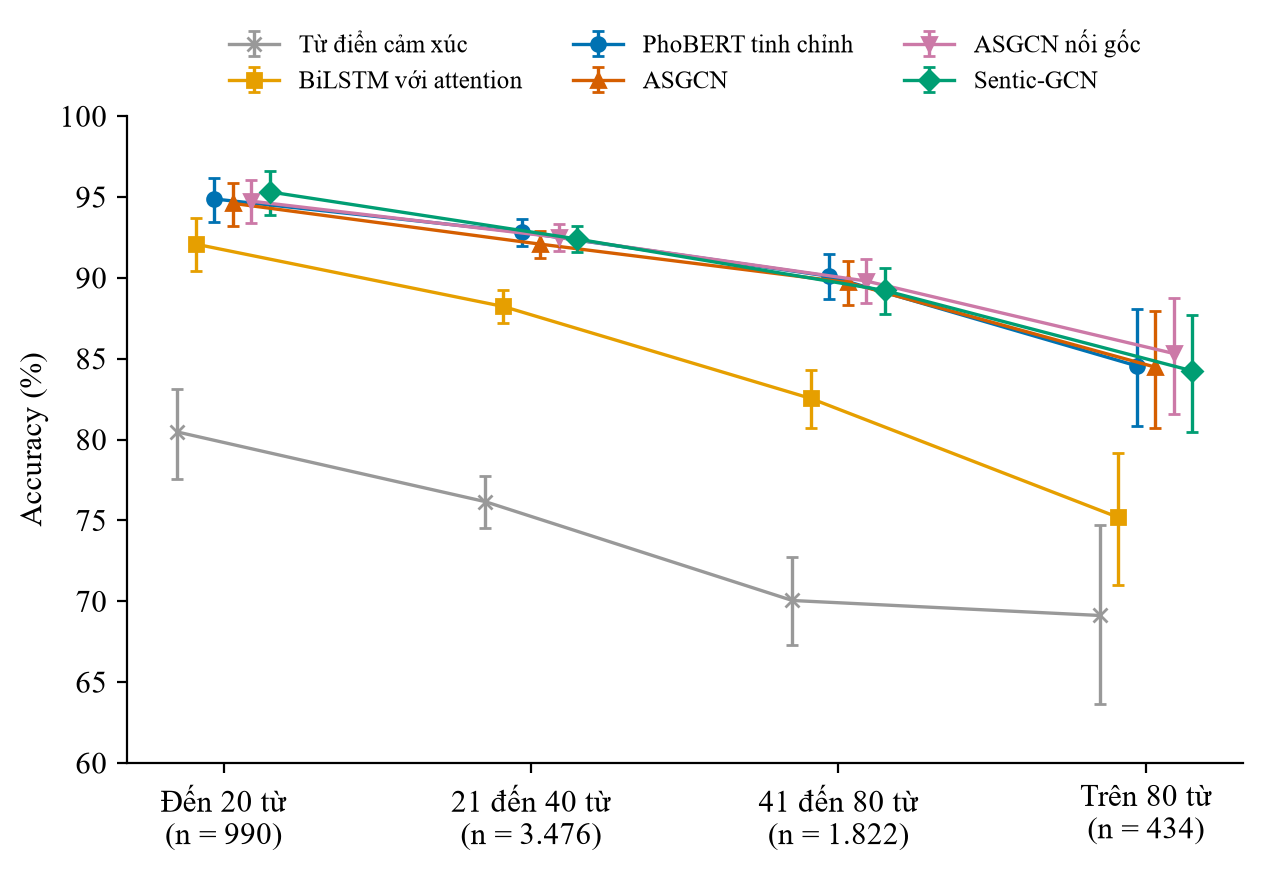
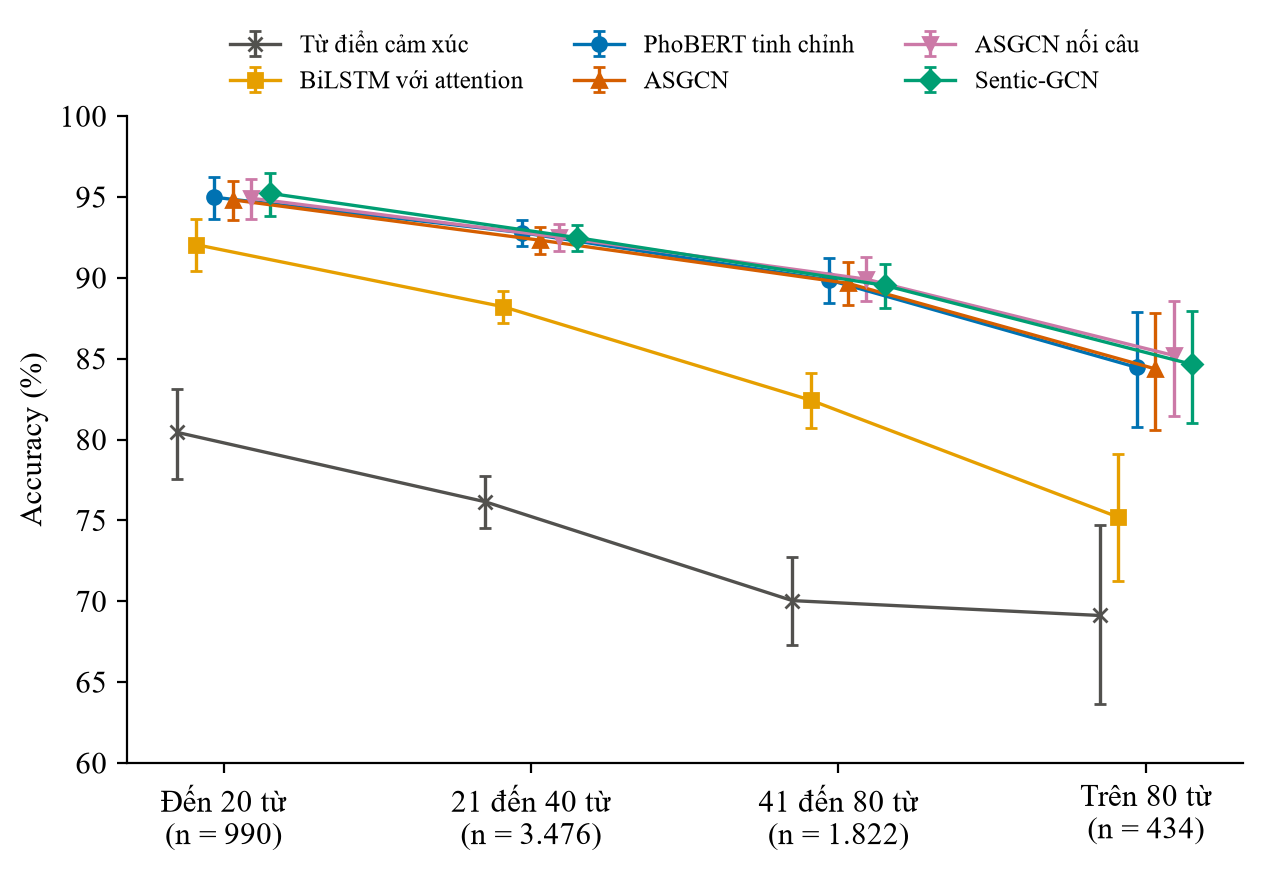
[CD1.12p] Doi ten bien the "ASGCN noi goc" thanh "ASGCN noi cau" (hoc vien thay ten cu kho hieu): ten hien thi, Phu luc C truc tuyen, hinh va bang xuat lai
Ban luu (ban day du) giu ten cu: doi_chieu_chuong4.py dung TEN_BAN_LUU khi --ban day_du.

diff --git a/scripts/doi_chieu_chuong4.py b/scripts/doi_chieu_chuong4.py
@@ -108,7 +108,8 @@ MAU_TEN_BANG = re.compile(r"^Bảng ((?:\d+|[A-Z])\.\d+): (.*)$")
 MAU_SO = re.compile(r"\d[\d.,]*\d|\d")
 MO_HINH = ("lexicon", "bilstm", "phobert", "asgcn", "asgcn_linked", "senticgcn")
 TEN = cb.TEN_HIEN_THI
-KHIA_CANH = ("GENERAL", "PERFORMANCE", "BATTERY", "FEATURES", "SER&ACC", "CAMERA", "PRICE", "DESIGN", "SCREEN", "STORAGE")
+TEN_BAN_LUU = {"asgcn_linked": "ASGCN nối gốc"}  # tên cũ, bản lưu (bản đầy đủ) vẫn dùng; xem main()
+KHIA_CANH =("GENERAL", "PERFORMANCE", "BATTERY", "FEATURES", "SER&ACC", "CAMERA", "PRICE", "DESIGN", "SCREEN", "STORAGE")
 # Số bình luận gốc của từng phần, đếm trên file của tác giả (Train.csv, Dev.csv, Test.csv). Không suy được từ
 # data/processed vì bình luận chỉ có nhãn OTHERS không sinh mẫu.
 BINH_LUAN_GOC = {"train": 7786, "dev": 1112, "test": 2224}
@@ -363,7 +364,7 @@ def cau_cua_ban_chinh(m, acc, f1, f1s, tt, tho, loi_tb, so_doan_tt, pre_tt, rec_
             f"ở {' và '.join(f'seed {sd}' for sd in duong_ag)} ASGCN nhỉnh hơn PhoBERT, ở {so_chu(len(cb.SEEDS) - len(duong_ag))} seed còn lại nó thấp hơn",
             "4.4, ASGCN từng seed"),
         neu(all(ng_ag[d]["hieu_so"] > 0 and ng_ag[d]["p"] < 0.05 for d in ("macro_f1", "accuracy")),
-            "biến thể nối gốc hơn ASGCN có ý nghĩa ở cả hai độ đo", "4.4, nối gốc hơn ASGCN"),
+            "biến thể nối câu hơn ASGCN có ý nghĩa ở cả hai độ đo", "4.4, nối gốc hơn ASGCN"),
         neu(f1["asgcn_linked"][1] < f1["asgcn"][1], "ổn định hơn ASGCN giữa các seed", "4.4, độ lệch chuẩn nối gốc"),
         neu(bool(am_ng := [str(sd) for sd, x in zip(cb.SEEDS, tung_seed("asgcn_linked", "asgcn")) if x < 0]),
             "Hiệu số với ASGCN còn đổi dấu ở " + " và ".join(f"seed {sd}" for sd in am_ng), "4.4, nối gốc đổi dấu theo seed"),
@@ -386,7 +387,7 @@ def cau_cua_ban_chinh(m, acc, f1, f1s, tt, tho, loi_tb, so_doan_tt, pre_tt, rec_
             f"dùng PhoBERT, {tp(pre_tt['senticgcn'])} %, và tổng số mẫu đoán sai vẫn nhiều hơn PhoBERT",
             "4.4, recall và precision của Sentic-GCN"),
         neu(all(cap[(e, "phobert")][d]["p"] >= 0.05 for e in ("senticgcn", "asgcn_linked") for d in ("macro_f1", "accuracy")),
-            "Sentic-GCN và ASGCN nối gốc không khác PhoBERT có ý nghĩa ở cả hai độ đo", "4.7, ba mô hình ngang nhau"),
+            "Sentic-GCN và ASGCN nối câu không khác PhoBERT có ý nghĩa ở cả hai độ đo", "4.7, ba mô hình ngang nhau"),
         neu(max(acc, key=lambda e: acc[e][0]) == "phobert" and nho_nhat_f1 == "phobert",
             "có accuracy cao nhất và, trong năm mô hình học, ổn định nhất giữa các seed", "4.7, mô hình đứng đầu"),
         neu(all(x > 0 for x in tung_seed("bilstm", "lexicon") + tung_seed("phobert", "bilstm"))
@@ -423,9 +424,9 @@ def so_lieu_doi_chung(goc: Path) -> Tuple[List[Tuple[str, Optional[str]]], Dict[
     """
     kq = json.loads((goc / "results/doi_chung_do_thi.json").read_text(encoding="utf-8"))
     ten = {"phobert": "PhoBERT tinh chỉnh", "phobert_fp32": "PhoBERT fp32", "asgcn_khong_gcn": "ASGCN bỏ GCN",
-           "asgcn": "ASGCN", "asgcn_linked": "ASGCN nối gốc", "senticgcn": "Sentic-GCN"}
+           "asgcn": "ASGCN", "asgcn_linked": "ASGCN nối câu", "senticgcn": "Sentic-GCN"}
     buoc = {("phobert_fp32", "phobert"): "Tắt độ chính xác hỗn hợp", ("asgcn_khong_gcn", "phobert_fp32"): "Đổi cách đọc ra",
-            ("asgcn", "asgcn_khong_gcn"): "Thêm GCN trên cây phụ thuộc", ("asgcn_linked", "asgcn_khong_gcn"): "Thêm GCN trên cây nối gốc",
+            ("asgcn", "asgcn_khong_gcn"): "Thêm GCN trên cây phụ thuộc", ("asgcn_linked", "asgcn_khong_gcn"): "Thêm GCN trên đồ thị nối câu",
             ("senticgcn", "asgcn_khong_gcn"): "Thêm GCN có trọng số cảm xúc"}
 
     def cap(nhom: str, a: str, b: str) -> dict:
@@ -468,7 +469,7 @@ def so_lieu_doi_chung(goc: Path) -> Tuple[List[Tuple[str, Optional[str]]], Dict[
             "4.4, đổi cách đọc ra"),
         neu(cay["hieu_so"] < 0 and cay["p_hoan_vi_seed"] >= 0.05,
             "cây phụ thuộc làm giảm thêm nhưng không vượt được dao động giữa các seed", "4.4, GCN trên cây phụ thuộc"),
-        neu(abs(noi["hieu_so"]) < 0.001, "cây nối gốc gần như không đổi gì", "4.4, GCN trên cây nối gốc"),
+        neu(abs(noi["hieu_so"]) < 0.001, "đồ thị nối câu gần như không đổi gì", "4.4, GCN trên cây nối gốc"),
         neu(0 < sen["hieu_so"] < 0.005 and sen["p"] >= 0.05, "còn trọng số cảm xúc tăng nhẹ mà không có ý nghĩa", "4.4, GCN có trọng số cảm xúc"),
         # Trước 17/10/2026 câu này viết "phần lớn khoảng cách ... đến từ cách đọc ra chứ không từ cây phụ thuộc": nói quá,
         # vì hai phần gần bằng nhau về độ lớn (0,63 và 0,58 điểm), chỉ khác ở phép hoán vị seed (GAP-042).
@@ -480,9 +481,9 @@ def so_lieu_doi_chung(goc: Path) -> Tuple[List[Tuple[str, Optional[str]]], Dict[
             f"Sentic-GCN hơn ASGCN bỏ GCN {tp(trai['hieu_so'] * 100)} điểm macro-F1 với p bootstrap bằng {cb.p_chu(trai['p'])}, "
             f"nhưng p hoán vị bằng {cb.p_chu(trai['p_hoan_vi_seed'])}, và nó vẫn thấp hơn PhoBERT fp32 {tp(-trai_fp['hieu_so'] * 100)} điểm",
             "4.4, Sentic-GCN ở nhóm trái cảm xúc"),
-        ("4.4, mẫu nối gốc có đổi đồ thị", f"Nối gốc chỉ đổi đồ thị ở {nghin(n_nhom['nhieu_goc'])} mẫu có từ hai gốc trở lên"),
+        ("4.4, mẫu nối gốc có đổi đồ thị", f"Việc nối câu chỉ đổi đồ thị ở {nghin(n_nhom['nhieu_goc'])} mẫu có từ hai câu trở lên"),
         neu(mot["hieu_so"] > nhieu["hieu_so"],
-            f"Ở {nghin(n_nhom['mot_goc'])} mẫu chỉ có một gốc, đồ thị của hai mô hình giống hệt nhau, vậy mà biến thể nối gốc vẫn hơn ASGCN "
+            f"Ở {nghin(n_nhom['mot_goc'])} mẫu chỉ có một câu, đồ thị của hai mô hình giống hệt nhau, vậy mà biến thể nối câu vẫn hơn ASGCN "
             f"{tp(mot['hieu_so'] * 100)} điểm ({p_loi(mot['p'])}); ở nhóm có đổi đồ thị nó chỉ hơn {tp(nhieu['hieu_so'] * 100)} điểm ({p_loi(nhieu['p'])})",
             "4.4, nối gốc theo nhóm một gốc và nhiều gốc"),
         neu(ng_toan["p_hoan_vi_seed"] >= 0.05, f"không qua được phép hoán vị seed (p bằng {cb.p_chu(ng_toan['p_hoan_vi_seed'])})", "4.4, nối gốc qua phép hoán vị"),
@@ -596,7 +597,7 @@ def ket_qua_chi_phi(goc: Path, mh: Dict[str, dict]) -> List[Tuple[str, Optional[
         ("4.5, GPU", f"Phép đo chạy trên GPU {gpu.pop() if len(gpu) == 1 else sorted(gpu)}"),
         neu(khoi_tao == ["asgcn", "phobert"], "PhoBERT và ASGCN được đo với trọng số lúc khởi tạo", "4.5, mô hình đo với trọng số lúc khởi tạo"),
         neu(all(khac[e][c] == 0 for e in ("lexicon", "asgcn_linked", "senticgcn") for c in ("1", "32")),
-            "Mô hình từ điển, ASGCN nối gốc và Sentic-GCN cho đúng từng dự đoán đã công bố ở cả hai kích thước lô", "4.5, dự đoán trùng"),
+            "Mô hình từ điển, ASGCN nối câu và Sentic-GCN cho đúng từng dự đoán đã công bố ở cả hai kích thước lô", "4.5, dự đoán trùng"),
         ("4.5, BiLSTM khác dự đoán", f"BiLSTM khác {khac['bilstm']['1']} trong {nghin(so_mau)} dự đoán ở lô 1 và {khac['bilstm']['32']} ở lô 32"),
         ("4.5, mô hình đồ thị chậm hơn", f"chậm hơn PhoBERT từ {min(cham['1']):.0f} đến {max(cham['1']):.0f} % ở lô 1 và từ {min(cham['32']):.0f} "
                                          f"đến {max(cham['32']):.0f} % ở lô 32"),
@@ -1076,11 +1077,14 @@ def main(argv=None) -> int:
     ap.add_argument("--do-cat", action="store_true", help="đo thêm tỉ lệ mẫu bị cắt ở 128 subword")
     ap.add_argument("--do-mau-so", action="store_true", help="đo thêm tỉ lệ từ và mẫu có mẫu số chuẩn hoá không dương ở Sentic-GCN (cần torch)")
     a = ap.parse_args(argv)
-    global THU_MUC_KQ
+    global THU_MUC_KQ, TEN
     if a.ban == "day_du":  # bản lưu viết theo 3 seed, không sửa nữa: kiểm với kết quả 3 seed đã chụp
         cb.SEEDS, THU_MUC_KQ = cb.SEEDS_BA, Path("results/ba_seed")
+        # Ngày 17/10/2026 học viên đổi tên biến thể "ASGCN nối gốc" thành "ASGCN nối câu" ở bản chính; bản lưu giữ tên cũ.
+        TEN = {**cb.TEN_HIEN_THI, **TEN_BAN_LUU}
     else:
         THU_MUC_KQ = Path("results")
+        TEN = cb.TEN_HIEN_THI
 
     cac_tep = list(a.nhap) if a.nhap else list(TEP_THEO_BAN[a.ban])
     tho_van = "\n\n".join((a.goc / p).read_text(encoding="utf-8") for p in cac_tep)

diff --git a/scripts/eval_llm.py b/scripts/eval_llm.py
@@ -56,7 +56,7 @@ SO_LOP = 3
 TU_KHOA = (("tieu cuc", "negative"), ("trung tinh", "trung lap", "neutral"), ("tich cuc", "positive"))
 MO_HINH_SO = ("lexicon", "bilstm", "phobert", "asgcn", "asgcn_linked", "senticgcn")
 TEN_HIEN_THI = {"lexicon": "Từ điển cảm xúc", "bilstm": "BiLSTM với attention", "phobert": "PhoBERT tinh chỉnh",
-                "asgcn": "ASGCN", "asgcn_linked": "ASGCN nối gốc", "senticgcn": "Sentic-GCN"}
+                "asgcn": "ASGCN", "asgcn_linked": "ASGCN nối câu", "senticgcn": "Sentic-GCN"}
 
 
 # --- Đọc dữ liệu và cấu hình -------------------------------------------------

diff --git a/scripts/compare_baselines.py b/scripts/compare_baselines.py
@@ -56,7 +56,7 @@ CAP_MAC_DINH: Tuple[Tuple[str, str], ...] = (
     ("senticgcn", "phobert"),
 )
 TEN_HIEN_THI = {"lexicon": "Từ điển cảm xúc", "bilstm": "BiLSTM với attention", "phobert": "PhoBERT tinh chỉnh",
-                "asgcn": "ASGCN", "asgcn_linked": "ASGCN nối gốc", "senticgcn": "Sentic-GCN"}
+                "asgcn": "ASGCN", "asgcn_linked": "ASGCN nối câu", "senticgcn": "Sentic-GCN"}
 
 
 def ma_cau(uid: str) -> str:

diff --git a/scripts/make_figures.py b/scripts/make_figures.py
@@ -127,7 +127,7 @@ def so_truc(v: float, _=None) -> str:
 
 
 MO_HINH_PHOBERT = ("phobert", "asgcn", "asgcn_linked", "senticgcn")
-TEN_NGAN = {"phobert": "PhoBERT", "asgcn": "ASGCN", "asgcn_linked": "ASGCN nối gốc", "senticgcn": "Sentic-GCN"}
+TEN_NGAN = {"phobert": "PhoBERT", "asgcn": "ASGCN", "asgcn_linked": "ASGCN nối câu", "senticgcn": "Sentic-GCN"}
 
 
 def hinh_4_2(chi_phi: dict, ket_qua: Path, out: Path, co_lo: str = "1") -> None:

diff --git a/chuyende1/phu_luc/PhuLuc_B_C.md b/chuyende1/phu_luc/PhuLuc_B_C.md
@@ -52,7 +52,7 @@ Bảng C.3: Macro-F1 từng seed của bốn mô hình dùng PhoBERT (%)
 |---|---|---|---|---|---|
 | PhoBERT tinh chỉnh | 86,49 | 86,65 | 86,77 | 86,48 | 87,10 |
 | ASGCN | 86,69 | 85,14 | 84,47 | 86,87 | 85,93 |
-| ASGCN nối gốc | 86,36 | 85,94 | 86,49 | 86,83 | 86,42 |
+| ASGCN nối câu | 86,36 | 85,94 | 86,49 | 86,83 | 86,42 |
 | Sentic-GCN | 86,28 | 86,40 | 86,82 | 86,96 | 87,05 |
 
 Bảng C.4: Hành vi trên lớp trung tính, trung bình 5 seed (tập kiểm tra có 817 mẫu trung tính trong 6.722 mẫu)
@@ -63,7 +63,7 @@ Bảng C.4: Hành vi trên lớp trung tính, trung bình 5 seed (tập kiểm t
 | BiLSTM với attention | 693,8 | 65,38 | 55,52 | 915,8 |
 | PhoBERT tinh chỉnh | 779,6 | 73,40 | 69,87 | 551,8 |
 | ASGCN | 711,4 | 74,87 | 64,94 | 573,8 |
-| ASGCN nối gốc | 719,8 | 75,63 | 66,56 | 558,0 |
+| ASGCN nối câu | 719,8 | 75,63 | 66,56 | 558,0 |
 | Sentic-GCN | 845,6 | 70,54 | 72,90 | 565,4 |
 
 Bảng C.5: Thành phần của tập chẩn đoán theo nhóm hiện tượng và nhãn cảm xúc gốc
@@ -84,7 +84,7 @@ Bảng C.6: Hiệu số so với nhóm thường của cùng mô hình (điểm 
 | BiLSTM với attention | -3,8 (0,260) | -14,1 (< 0,001) | -15,0 (0,001) | -8,4 (0,026) | -16,6 (< 0,001) | -16,9 (< 0,001) |
 | PhoBERT tinh chỉnh | -1,4 (0,593) | -6,3 (0,013) | -17,6 (< 0,001) | -3,4 (0,201) | -7,5 (0,003) | -19,1 (< 0,001) |
 | ASGCN | -1,6 (0,551) | -6,7 (0,004) | -16,1 (< 0,001) | -4,8 (0,084) | -8,2 (< 0,001) | -17,4 (< 0,001) |
-| ASGCN nối gốc | -1,8 (0,526) | -6,0 (0,013) | -16,7 (< 0,001) | -4,4 (0,127) | -7,2 (0,003) | -18,5 (< 0,001) |
+| ASGCN nối câu | -1,8 (0,526) | -6,0 (0,013) | -16,7 (< 0,001) | -4,4 (0,127) | -7,2 (0,003) | -18,5 (< 0,001) |
 | Sentic-GCN | +0,5 (0,810) | -5,2 (0,028) | -17,1 (< 0,001) | -0,8 (0,782) | -6,1 (0,008) | -17,9 (< 0,001) |
 
 Bảng C.7: Macro-F1 trên bốn nhóm của tập chẩn đoán (%, khoảng tin cậy 95 % trong ngoặc)
@@ -95,7 +95,7 @@ Bảng C.7: Macro-F1 trên bốn nhóm của tập chẩn đoán (%, khoảng ti
 | BiLSTM với attention | 85,6 (82,6 đến 88,4) | 77,2 (69,4 đến 84,1) | 69,0 (63,4 đến 74,1) | 68,7 (60,4 đến 76,1) |
 | PhoBERT tinh chỉnh | 91,8 (89,5 đến 94,0) | 88,4 (82,9 đến 93,0) | 84,3 (79,3 đến 88,7) | 72,7 (63,8 đến 80,8) |
 | ASGCN | 90,5 (88,1 đến 92,7) | 85,7 (80,0 đến 90,5) | 82,3 (77,9 đến 86,2) | 73,1 (64,0 đến 81,0) |
-| ASGCN nối gốc | 91,4 (89,0 đến 93,6) | 87,0 (81,1 đến 92,0) | 84,2 (79,6 đến 88,3) | 72,9 (63,6 đến 80,9) |
+| ASGCN nối câu | 91,4 (89,0 đến 93,6) | 87,0 (81,1 đến 92,0) | 84,2 (79,6 đến 88,3) | 72,9 (63,6 đến 80,9) |
 | Sentic-GCN | 92,6 (90,2 đến 94,6) | 91,8 (86,7 đến 95,9) | 86,4 (81,9 đến 90,4) | 74,7 (65,8 đến 82,4) |
 
 Bảng C.8: Accuracy theo từng dấu hiệu (%, khoảng tin cậy 95 % trong ngoặc) và hiệu số so với nhóm thường (điểm phần trăm, giá trị p trong ngoặc)
@@ -106,7 +106,7 @@ Bảng C.8: Accuracy theo từng dấu hiệu (%, khoảng tin cậy 95 % trong 
 | BiLSTM với attention | 85,7 (82,7 đến 88,6) | 77,2 (72,3 đến 82,2) | -8,4 (0,003) | 71,3 (66,7 đến 75,8) | -14,4 (< 0,001) |
 | PhoBERT tinh chỉnh | 91,6 (89,2 đến 93,8) | 83,5 (79,0 đến 87,9) | -8,1 (0,002) | 81,7 (77,5 đến 85,7) | -9,9 (< 0,001) |
 | ASGCN | 90,4 (88,0 đến 92,6) | 82,8 (78,0 đến 87,2) | -7,6 (0,004) | 80,7 (76,5 đến 84,5) | -9,7 (< 0,001) |
-| ASGCN nối gốc | 91,2 (88,8 đến 93,5) | 83,3 (78,5 đến 87,6) | -8,0 (0,003) | 81,8 (77,6 đến 85,7) | -9,4 (< 0,001) |
+| ASGCN nối câu | 91,2 (88,8 đến 93,5) | 83,3 (78,5 đến 87,6) | -8,0 (0,003) | 81,8 (77,6 đến 85,7) | -9,4 (< 0,001) |
 | Sentic-GCN | 92,3 (89,9 đến 94,5) | 85,5 (81,0 đến 89,6) | -6,8 (0,007) | 83,3 (79,3 đến 87,0) | -9,0 (< 0,001) |
 
 Bảng C.9: Hiệu số accuracy so với PhoBERT tinh chỉnh trong từng nhóm (điểm phần trăm, mô hình trừ PhoBERT; khoảng tin cậy 95 % trong ngoặc)
@@ -116,7 +116,7 @@ Bảng C.9: Hiệu số accuracy so với PhoBERT tinh chỉnh trong từng nhó
 | Từ điển cảm xúc | -36,9 (-41,7 đến -32,3); p < 0,001 | -23,9 (-31,7 đến -16,3); p < 0,001 | -40,0 (-47,1 đến -33,0); p < 0,001 | -36,7 (-46,6 đến -26,7); p < 0,001 |
 | BiLSTM với attention | -5,9 (-8,3 đến -3,6); p < 0,001 | -8,4 (-13,3 đến -3,7); p < 0,001 | -13,7 (-18,9 đến -8,7); p < 0,001 | -3,3 (-9,4 đến +2,9); p 0,303 |
 | ASGCN | -1,3 (-2,5 đến -0,0); p 0,048 | -1,5 (-4,0 đến +1,1); p 0,258 | -1,7 (-3,7 đến +0,3); p 0,109 | +0,2 (-3,7 đến +4,2); p 0,949 |
-| ASGCN nối gốc | -0,4 (-1,5 đến +0,8); p 0,532 | -0,8 (-3,5 đến +1,9); p 0,561 | -0,1 (-2,4 đến +2,2); p 0,933 | +0,5 (-3,6 đến +4,8); p 0,869 |
+| ASGCN nối câu | -0,4 (-1,5 đến +0,8); p 0,532 | -0,8 (-3,5 đến +1,9); p 0,561 | -0,1 (-2,4 đến +2,2); p 0,933 | +0,5 (-3,6 đến +4,8); p 0,869 |
 | Sentic-GCN | +0,7 (-0,4 đến +1,8); p 0,240 | +2,5 (+0,0 đến +5,4); p 0,063 | +1,8 (-0,5 đến +4,1); p 0,146 | +1,2 (-2,2 đến +5,1); p 0,564 |
 
 ASGCN thấp hơn PhoBERT 1,3 điểm ở nhóm thường (p bằng 0,048); ở nhóm phủ định, khoảng cách 1,5 điểm không có ý nghĩa (p bằng 0,258). Ở nhóm cả hai, BiLSTM chỉ thấp hơn PhoBERT 3,3 điểm (p bằng 0,303), tức với 84 mẫu của nhóm này, lợi thế của mô hình tiền huấn luyện không còn đo được.
@@ -129,7 +129,7 @@ Bảng C.10: Accuracy trên 655 mẫu mà người chú thích đồng ý với 
 | BiLSTM với attention | 90,6 | 87,0 (-3,6; p 0,223) | 80,0 (-10,6; p < 0,001) | 82,9 (-7,7; p 0,066) |
 | PhoBERT tinh chỉnh | 95,5 | 94,7 (-0,9; p 0,695) | 91,4 (-4,2; p 0,072) | 84,0 (-11,5; p 0,004) |
 | ASGCN | 94,5 | 93,5 (-1,0; p 0,683) | 89,7 (-4,8; p 0,035) | 82,5 (-11,9; p 0,006) |
-| ASGCN nối gốc | 95,0 | 94,1 (-0,9; p 0,693) | 91,4 (-3,7; p 0,085) | 82,5 (-12,5; p 0,007) |
+| ASGCN nối câu | 95,0 | 94,1 (-0,9; p 0,693) | 91,4 (-3,7; p 0,085) | 82,5 (-12,5; p 0,007) |
 | Sentic-GCN | 96,0 | 95,8 (-0,2; p 0,970) | 91,5 (-4,5; p 0,048) | 81,8 (-14,2; p < 0,001) |
 
 ## Tài liệu tham khảo

diff --git a/chuyende1/tables/bang_5_phan_tich_loi.md b/chuyende1/tables/bang_5_phan_tich_loi.md
@@ -6,12 +6,12 @@ Bảng A. Lỗi theo cặp lớp, trung bình các seed. Sáu cột giữa là p
 | BiLSTM với attention | 916 | 10,7 | 15,2 | 19,5 | 20,2 | 18,9 | 15,6 | 89,3 | 55,5 | 91,5 |
 | PhoBERT tinh chỉnh | 552 | 15,9 | 8,0 | 19,7 | 24,9 | 9,6 | 21,9 | 94,0 | 69,9 | 95,3 |
 | ASGCN | 574 | 12,1 | 8,0 | 22,8 | 27,1 | 10,6 | 19,4 | 94,8 | 64,9 | 95,3 |
-| ASGCN nối gốc | 558 | 10,0 | 7,3 | 23,0 | 25,9 | 12,2 | 21,5 | 95,6 | 66,6 | 94,9 |
+| ASGCN nối câu | 558 | 10,0 | 7,3 | 23,0 | 25,9 | 12,2 | 21,5 | 95,6 | 66,6 | 94,9 |
 | Sentic-GCN | 565 | 16,9 | 7,5 | 17,4 | 21,8 | 9,2 | 27,3 | 93,8 | 72,9 | 94,4 |
 
 Bảng B. Macro-F1 theo khía cạnh (%), trung bình các seed, xếp theo số mẫu huấn luyện giảm dần.
 
-| Khía cạnh | Mẫu huấn luyện | Mẫu kiểm tra | Trung tính trong kiểm tra (%) | Từ điển cảm xúc | BiLSTM với attention | PhoBERT tinh chỉnh | ASGCN | ASGCN nối gốc | Sentic-GCN |
+| Khía cạnh | Mẫu huấn luyện | Mẫu kiểm tra | Trung tính trong kiểm tra (%) | Từ điển cảm xúc | BiLSTM với attention | PhoBERT tinh chỉnh | ASGCN | ASGCN nối câu | Sentic-GCN |
 |---|---|---|---|---|---|---|---|---|---|
 | GENERAL | 4.866 | 1.381 | 6,0 | 53,2 | 81,2 | 86,0 | 85,3 | 85,3 | 87,4 |
 | PERFORMANCE | 4.140 | 1.172 | 9,9 | 55,9 | 71,7 | 81,3 | 81,1 | 81,1 | 82,4 |
@@ -24,7 +24,7 @@ Bảng B. Macro-F1 theo khía cạnh (%), trung bình các seed, xếp theo số
 | SCREEN | 949 | 269 | 6,3 | 53,4 | 67,1 | 76,8 | 73,9 | 76,0 | 78,7 |
 | STORAGE | 91 | 27 | 11,1 | 52,6 | 48,6 | 80,7 | 77,5 | 76,9 | 76,7 |
 
-Tương quan hạng Spearman giữa số mẫu huấn luyện của khía cạnh và macro-F1 trên khía cạnh đó (10 khía cạnh): Từ điển cảm xúc rho = 0,05, p = 0,881; BiLSTM với attention rho = 0,66, p = 0,038; PhoBERT tinh chỉnh rho = 0,60, p = 0,067; ASGCN rho = 0,58, p = 0,082; ASGCN nối gốc rho = 0,65, p = 0,043; Sentic-GCN rho = 0,76, p = 0,011.
+Tương quan hạng Spearman giữa số mẫu huấn luyện của khía cạnh và macro-F1 trên khía cạnh đó (10 khía cạnh): Từ điển cảm xúc rho = 0,05, p = 0,881; BiLSTM với attention rho = 0,66, p = 0,038; PhoBERT tinh chỉnh rho = 0,60, p = 0,067; ASGCN rho = 0,58, p = 0,082; ASGCN nối câu rho = 0,65, p = 0,043; Sentic-GCN rho = 0,76, p = 0,011.
 
 Bảng C. Accuracy theo độ dài câu. Mỗi ô: trung bình các seed (%), khoảng tin cậy 95 % trong ngoặc vuông; nhóm khác nhóm đầu có thêm hiệu so với nhóm đầu (điểm phần trăm) và p hai phía. Bootstrap 10.000 lần theo câu (2.187 câu).
 
@@ -34,7 +34,7 @@ Bảng C. Accuracy theo độ dài câu. Mỗi ô: trung bình các seed (%), kh
 | BiLSTM với attention | 92,1 [90,4; 93,7] | 88,2 [87,2; 89,2]; -3,8, p < 0,001 | 82,4 [80,7; 84,1]; -9,6, p < 0,001 | 75,2 [71,2; 79,1]; -16,9, p < 0,001 |
 | PhoBERT tinh chỉnh | 95,0 [93,6; 96,3] | 92,8 [92,0; 93,6]; -2,2, p 0,006 | 89,9 [88,5; 91,2]; -5,1, p < 0,001 | 84,5 [80,8; 87,9]; -10,5, p < 0,001 |
 | ASGCN | 94,8 [93,6; 96,0] | 92,3 [91,5; 93,1]; -2,5, p < 0,001 | 89,7 [88,3; 91,0]; -5,2, p < 0,001 | 84,4 [80,6; 87,8]; -10,5, p < 0,001 |
-| ASGCN nối gốc | 94,9 [93,6; 96,1] | 92,5 [91,7; 93,3]; -2,4, p 0,002 | 89,9 [88,6; 91,3]; -5,0, p < 0,001 | 85,2 [81,5; 88,6]; -9,7, p < 0,001 |
+| ASGCN nối câu | 94,9 [93,6; 96,1] | 92,5 [91,7; 93,3]; -2,4, p 0,002 | 89,9 [88,6; 91,3]; -5,0, p < 0,001 | 85,2 [81,5; 88,6]; -9,7, p < 0,001 |
 | Sentic-GCN | 95,2 [93,8; 96,5] | 92,5 [91,7; 93,3]; -2,7, p 0,002 | 89,5 [88,1; 90,9]; -5,7, p < 0,001 | 84,7 [81,0; 88,0]; -10,6, p < 0,001 |
 
 Bảng D. Accuracy theo loại câu. Mỗi ô: trung bình các seed (%), khoảng tin cậy 95 % trong ngoặc vuông; nhóm khác nhóm đầu có thêm hiệu so với nhóm đầu (điểm phần trăm) và p hai phía. Bootstrap 10.000 lần theo câu (2.187 câu).
@@ -45,7 +45,7 @@ Bảng D. Accuracy theo loại câu. Mỗi ô: trung bình các seed (%), khoả
 | BiLSTM với attention | 94,5 [93,6; 95,2] | 88,0 [84,8; 91,1]; -6,5, p < 0,001 | 79,9 [78,7; 81,0]; -14,6, p < 0,001 |
 | PhoBERT tinh chỉnh | 96,9 [96,3; 97,5] | 91,8 [88,9; 94,4]; -5,1, p < 0,001 | 87,8 [86,7; 88,8]; -9,1, p < 0,001 |
 | ASGCN | 97,3 [96,7; 97,8] | 92,6 [89,8; 95,1]; -4,7, p < 0,001 | 86,8 [85,8; 87,8]; -10,5, p < 0,001 |
-| ASGCN nối gốc | 97,1 [96,5; 97,6] | 92,9 [90,1; 95,5]; -4,2, p 0,001 | 87,3 [86,3; 88,3]; -9,8, p < 0,001 |
+| ASGCN nối câu | 97,1 [96,5; 97,6] | 92,9 [90,1; 95,5]; -4,2, p 0,001 | 87,3 [86,3; 88,3]; -9,8, p < 0,001 |
 | Sentic-GCN | 96,4 [95,7; 97,0] | 93,0 [90,4; 95,4]; -3,4, p 0,008 | 87,7 [86,6; 88,7]; -8,7, p < 0,001 |
 
 Bảng E. Câu trái nhãn (986 câu). Sụp nhãn: câu bị đoán cùng một nhãn cho mọi khía cạnh. Hai cột cuối chỉ tính trên 836 câu có đúng hai nhãn khác nhau: trong các lỗi ở đó, bao nhiêu phần trăm rơi vào nhãn còn lại đang có trong câu chứ không phải nhãn thứ ba.
@@ -56,7 +56,7 @@ Bảng E. Câu trái nhãn (986 câu). Sụp nhãn: câu bị đoán cùng một
 | BiLSTM với attention | 18,9 | 561 | 64,5 |
 | PhoBERT tinh chỉnh | 11,3 | 340 | 63,4 |
 | ASGCN | 13,9 | 370 | 66,8 |
-| ASGCN nối gốc | 12,9 | 356 | 65,0 |
+| ASGCN nối câu | 12,9 | 356 | 65,0 |
 | Sentic-GCN | 10,2 | 345 | 60,3 |
 
 Bảng F. Số mẫu sai trên 6.722 mẫu kiểm tra. Luôn sai: sai ở mọi seed.
@@ -67,10 +67,10 @@ Bảng F. Số mẫu sai trên 6.722 mẫu kiểm tra. Luôn sai: sai ở mọi 
 | BiLSTM với attention | 419 (6,2 %) | 1.577 (23,5 %) |
 | PhoBERT tinh chỉnh | 307 (4,6 %) | 854 (12,7 %) |
 | ASGCN | 291 (4,3 %) | 946 (14,1 %) |
-| ASGCN nối gốc | 301 (4,5 %) | 876 (13,0 %) |
+| ASGCN nối câu | 301 (4,5 %) | 876 (13,0 %) |
 | Sentic-GCN | 322 (4,8 %) | 855 (12,7 %) |
 
-Bảng G. Giao lỗi của bốn mô hình dùng PhoBERT (PhoBERT tinh chỉnh, ASGCN, ASGCN nối gốc, Sentic-GCN).
+Bảng G. Giao lỗi của bốn mô hình dùng PhoBERT (PhoBERT tinh chỉnh, ASGCN, ASGCN nối câu, Sentic-GCN).
 
 | Số mô hình luôn sai trên mẫu | 0 | 1 | 2 | 3 | 4 |
 |---|---|---|---|---|---|

diff --git a/chuyende1/tables/bang_4_kiem_dinh.md b/chuyende1/tables/bang_4_kiem_dinh.md
@@ -5,7 +5,7 @@ Kiểm định bootstrap ghép cặp: 10.000 lần lấy mẫu theo câu (2.187 
 | BiLSTM với attention | Từ điển cảm xúc | +27,08 | +25,85 đến +28,28 | < 0,001 | +11,70 | +10,61 đến +12,80 | < 0,001 |
 | PhoBERT tinh chỉnh | BiLSTM với attention | +7,23 | +6,32 đến +8,13 | < 0,001 | +5,42 | +4,82 đến +6,01 | < 0,001 |
 | ASGCN | PhoBERT tinh chỉnh | -0,88 | -1,34 đến -0,44 | < 0,001 | -0,33 | -0,59 đến -0,07 | 0,013 |
-| ASGCN nối gốc | ASGCN | +0,59 | +0,25 đến +0,93 | < 0,001 | +0,24 | +0,04 đến +0,43 | 0,018 |
+| ASGCN nối câu | ASGCN | +0,59 | +0,25 đến +0,93 | < 0,001 | +0,24 | +0,04 đến +0,43 | 0,018 |
 | Sentic-GCN | ASGCN | +0,88 | +0,40 đến +1,38 | < 0,001 | +0,12 | -0,15 đến +0,41 | 0,400 |
-| ASGCN nối gốc | PhoBERT tinh chỉnh | -0,29 | -0,76 đến +0,17 | 0,222 | -0,09 | -0,36 đến +0,18 | 0,522 |
+| ASGCN nối câu | PhoBERT tinh chỉnh | -0,29 | -0,76 đến +0,17 | 0,222 | -0,09 | -0,36 đến +0,18 | 0,522 |
 | Sentic-GCN | PhoBERT tinh chỉnh | +0,00 | -0,45 đến +0,46 | 0,987 | -0,20 | -0,48 đến +0,07 | 0,158 |
